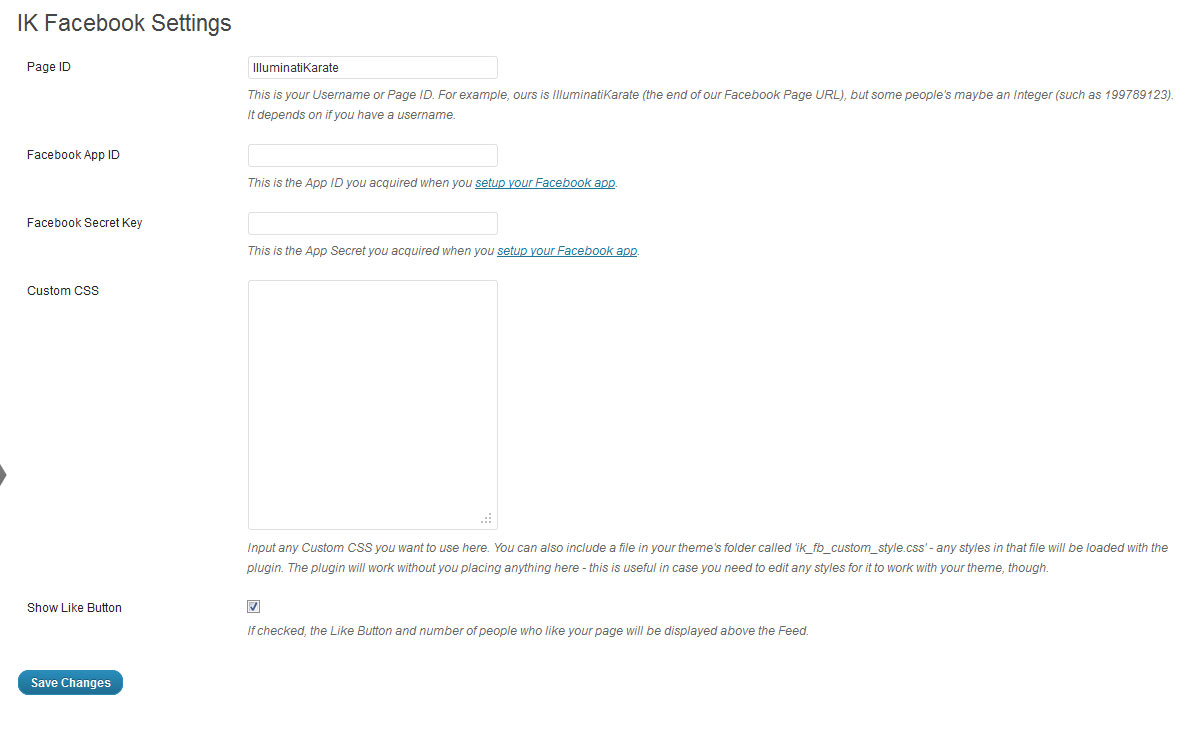
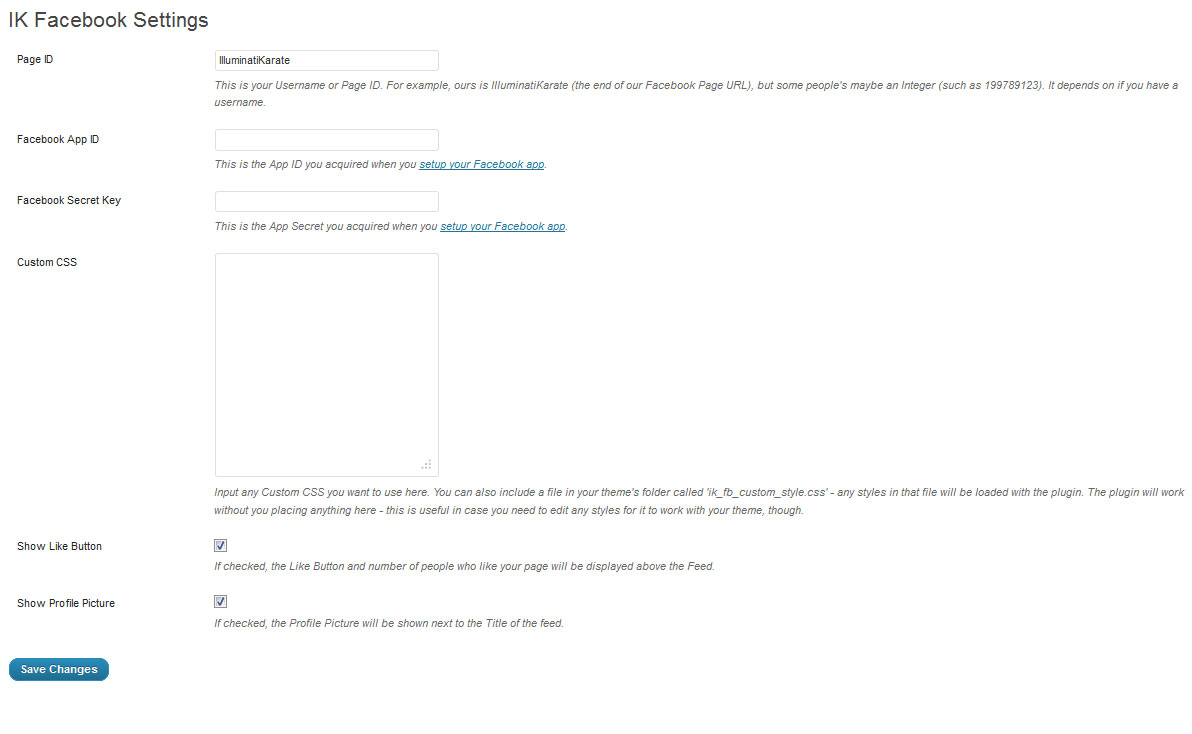
Adds Option to show / hide Profile Picture.  Updates readme and screenshot.
git-svn-id: https://plugins.svn.wordpress.org/ik-facebook/trunk@617933 b8457f37-d9ea-0310-8a92-e5e31aec5664

diff --git a/style.css b/style.css
@@ -39,7 +39,6 @@ p.ik_fb_error{
     margin: 0;
 }
 #ik_fb_widget .ik_fb_profile_picture {
-    height: 55px;
     padding: 10px 4px 0;
     position: relative;
 }

diff --git a/ik_facebook_options.php b/ik_facebook_options.php
@@ -42,6 +42,7 @@ class ikFacebookOptions
 		register_setting( 'ik-fb-settings-group', 'ik_fb_secret_key' );
 		register_setting( 'ik-fb-settings-group', 'ik_fb_custom_css' );
 		register_setting( 'ik-fb-settings-group', 'ik_fb_show_like_button' );
+		register_setting( 'ik-fb-settings-group', 'ik_fb_show_profile_picture' );
 	}
 
 	function settings_page(){
@@ -94,6 +95,14 @@ class ikFacebookOptions
 					<th scope="row"><label for="ik_fb_show_like_button">Show Like Button</label></th>
 					<td><input type="checkbox" name="ik_fb_show_like_button" id="ik_fb_show_like_button" value="1" <?php if(get_option('ik_fb_show_like_button')){ ?> checked="CHECKED" <?php } ?>/>
 					<p class="description">If checked, the Like Button and number of people who like your page will be displayed above the Feed.</p></td>
+				</tr>
+			</table>
+			
+			<table class="form-table">
+				<tr valign="top">
+					<th scope="row"><label for="ik_fb_show_profile_picture">Show Profile Picture</label></th>
+					<td><input type="checkbox" name="ik_fb_show_profile_picture" id="ik_fb_show_profile_picture" value="1" <?php if(get_option('ik_fb_show_profile_picture')){ ?> checked="CHECKED" <?php } ?>/>
+					<p class="description">If checked, the Profile Picture will be shown next to the Title of the feed.</p></td>
 				</tr>
 			</table>
 			

diff --git a/ik_facebook.php b/ik_facebook.php
@@ -4,7 +4,7 @@ Plugin Name: IK Facebook
 Plugin URI: http://illuminatikarate.com/ik-facebook-plugin
 Description: IK Facebook - A Facebook Solution for WordPress
 Author: Illuminati Karate, Inc.
-Version: 1.1
+Version: 1.1.1
 Author URI: http://illuminatikarate.com
 
 This file is part of IK Facebook.
@@ -102,9 +102,14 @@ class ikFacebook
 		$output = '<div id="ik_fb_widget">';
 		
 		//outputs the profile picture and Like button for the profile
-		$output .= '<div class="ik_fb_profile_picture">
-						<img src="//graph.facebook.com/'.$page_data->username.'/picture" height="50" width="50" />
-						<a target="_blank" href="'.$page_data->link.'"><span class="ik_fb_name">'.$page_data->name.'</span> on Facebook</a>
+		$output .= '<div class="ik_fb_profile_picture">';
+		
+		//only display photo if option is set
+		if(get_option('ik_fb_show_profile_picture')){
+			$output .= '<img src="//graph.facebook.com/'.$page_data->username.'/picture" height="50" width="50" />';
+		}
+		
+		$output .= '	<a target="_blank" href="'.$page_data->link.'"><span class="ik_fb_name">'.$page_data->name.'</span> on Facebook</a>
 					</div>';			
 
 		//only show like button if enabled in settings
